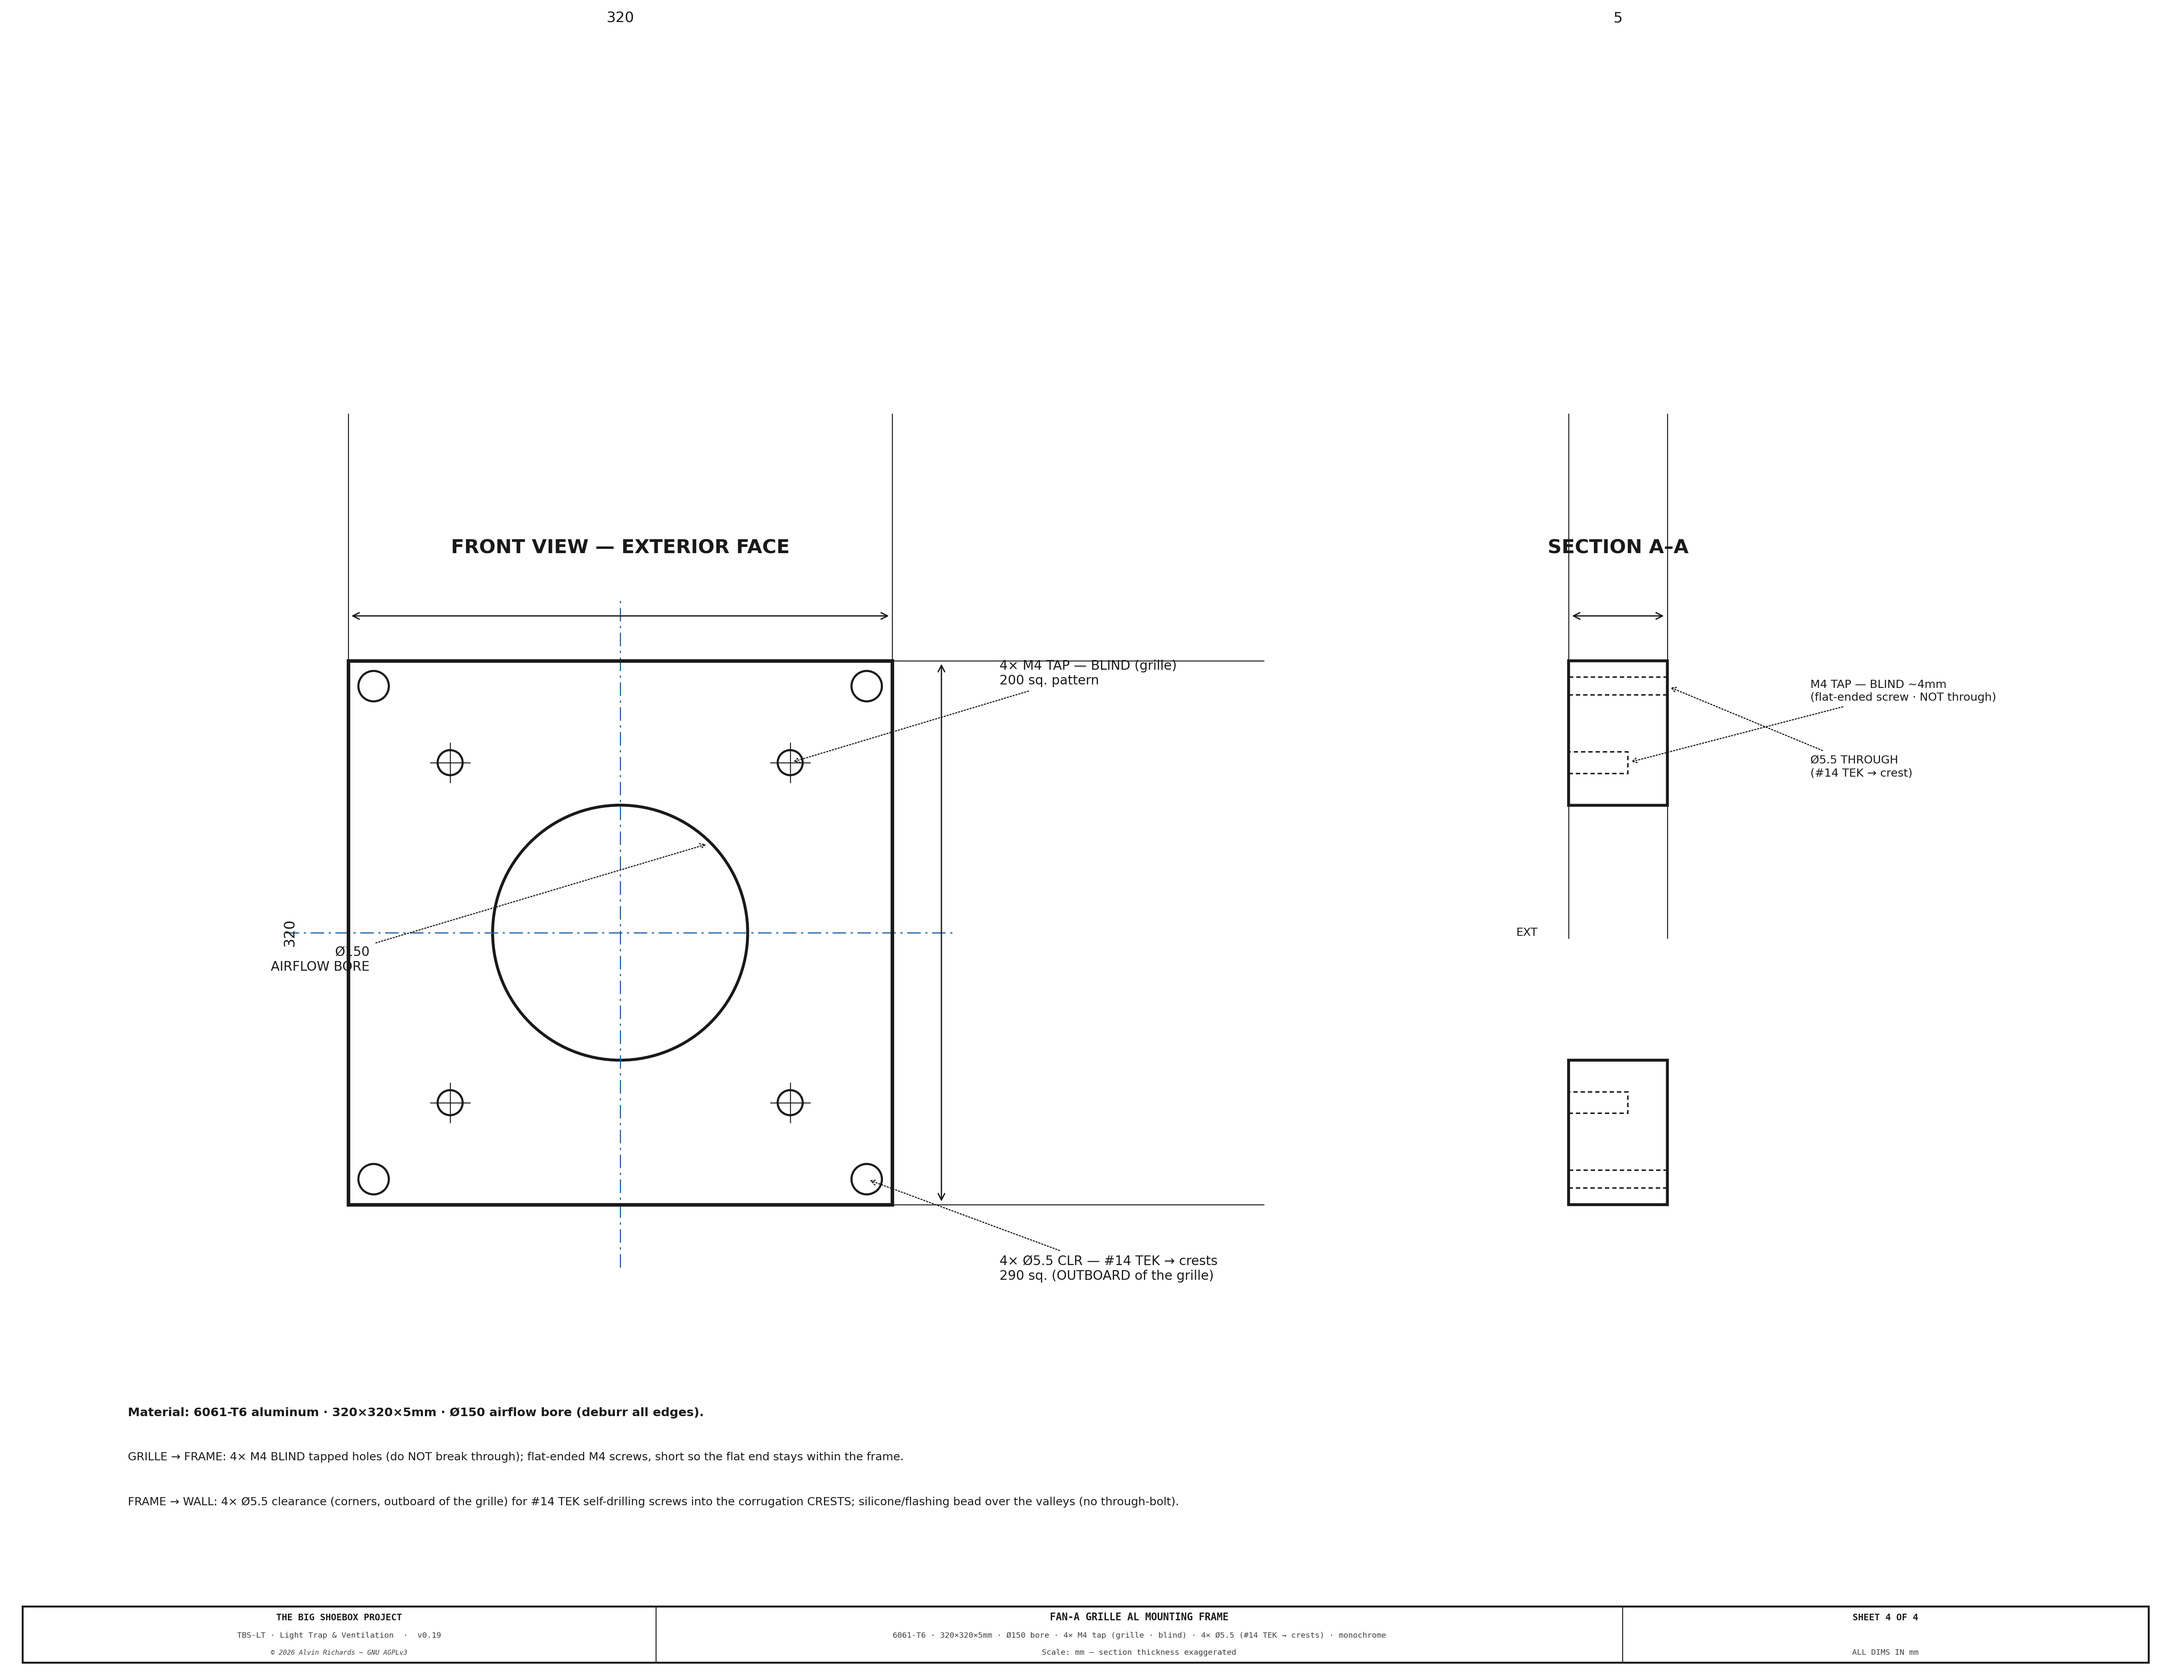
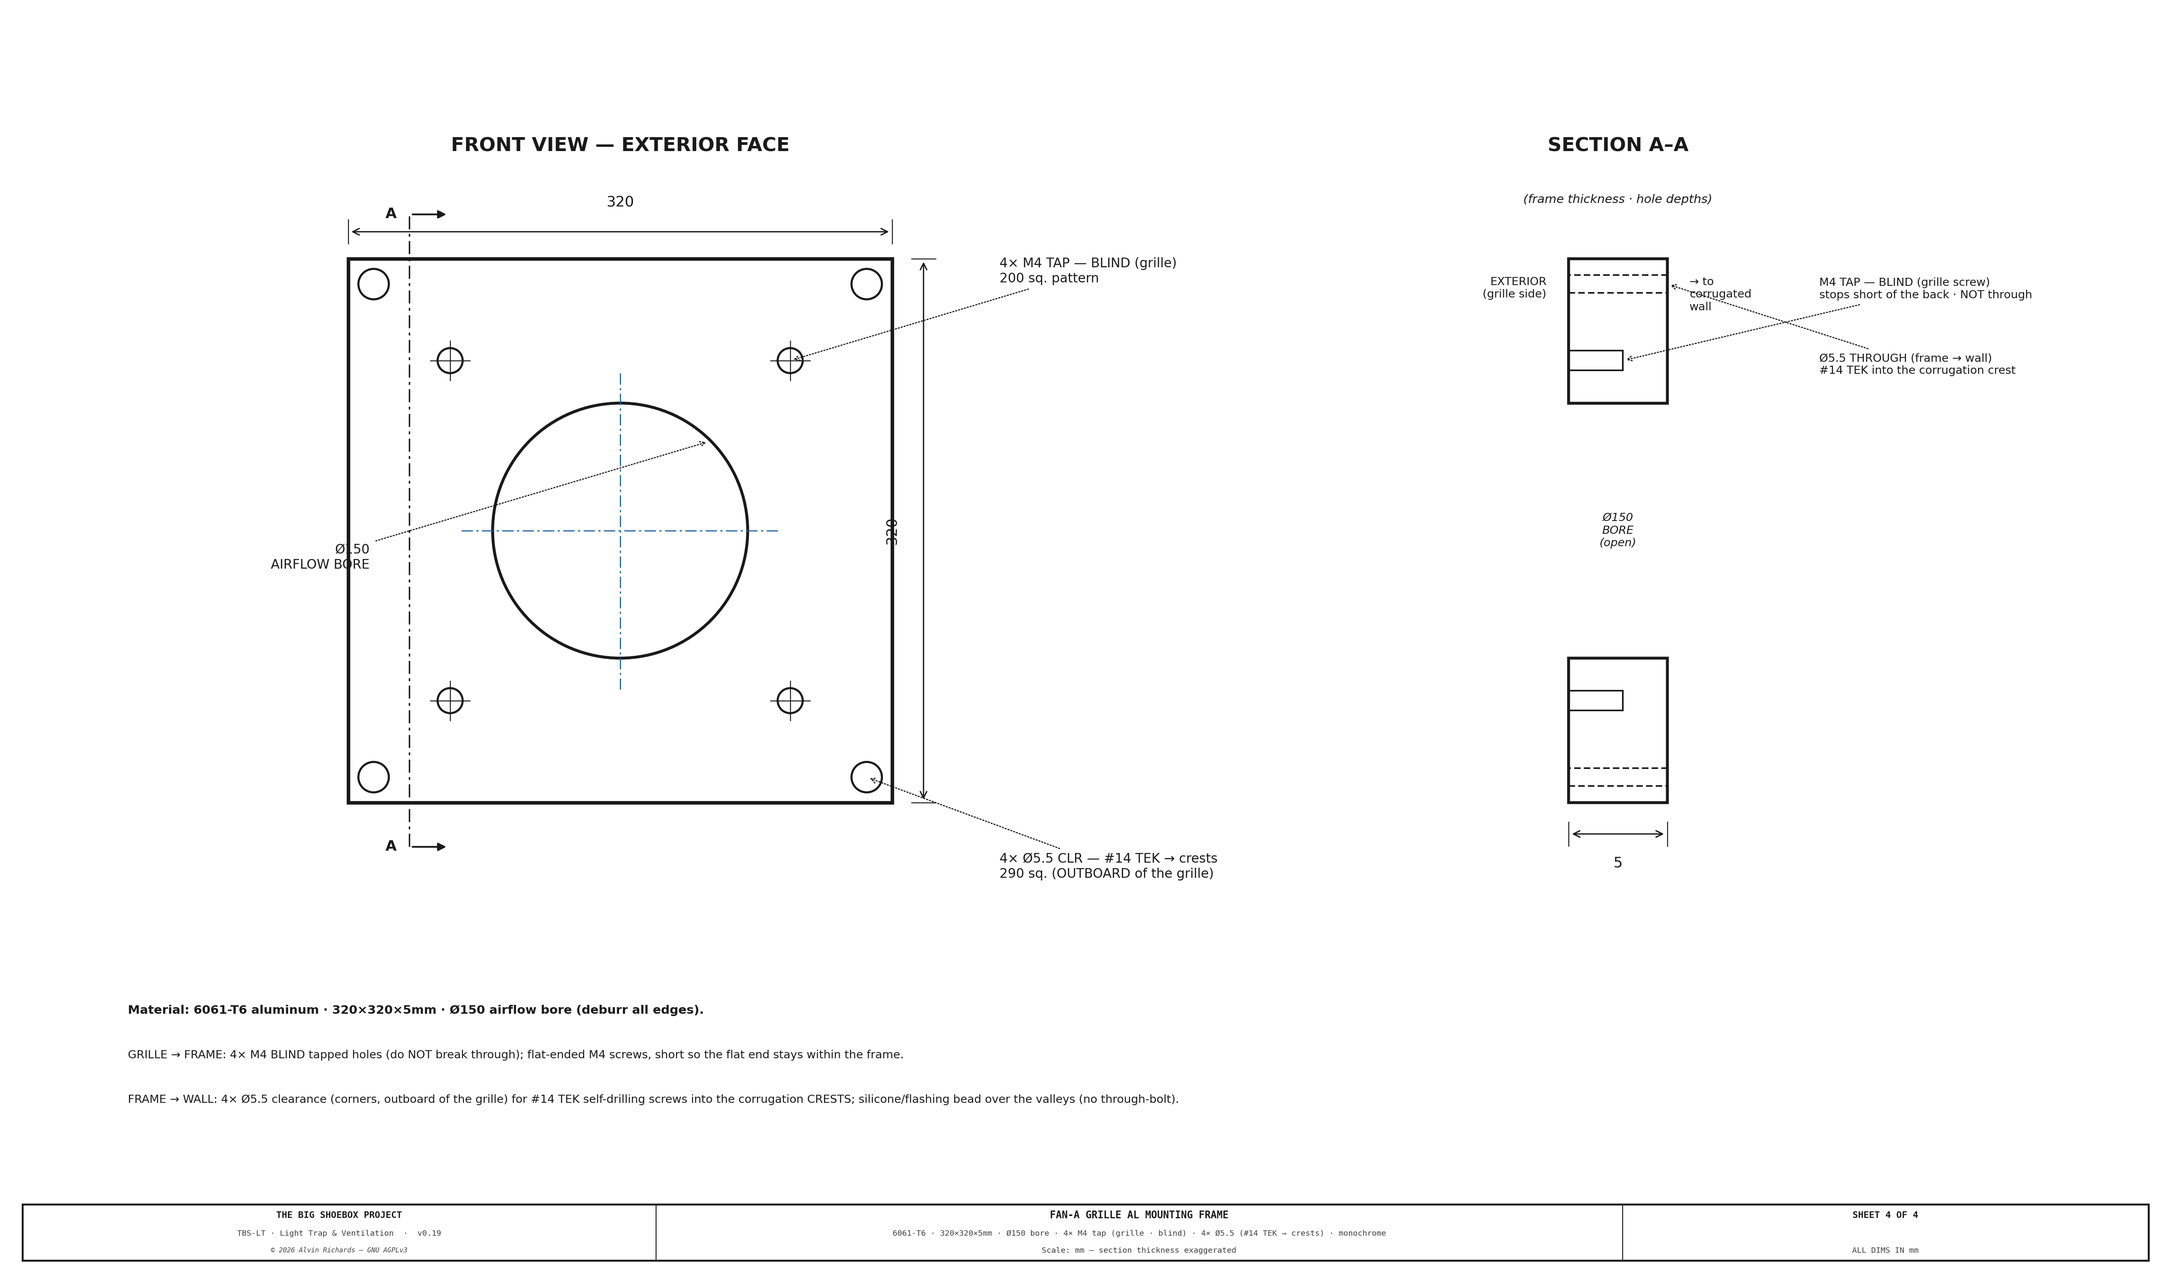
Ventilation Sheets 2 & 4 — review fixes
Sheet 2: extend the container wall to cover the grille frame + its OUTBOARD TEK
fixings (compute the frame margin before the wall) — the TEK screws now land in
the wall instead of empty space.

Sheet 4 (frame blueprint):
 - Add the SECTION A-A cut line + arrows on the front view so the section is
   anchored; clarify what A-A shows (subtitle 'frame thickness · hole depths',
   EXTERIOR/grille-side vs -> wall orientation, 'Ø150 BORE (open)', and the M4
   BLIND tap vs Ø5.5 THROUGH contrast spelled out).
 - Shorten the centre lines to a bore crosshair and tighten the dimension offset
   (default offset=12 drew 3.6-unit witness ticks past the frame) so draw_dim_h/v
   show the limits without extra extending lines; move the section thickness dim
   clear of the subtitle. All gates pass; built locally.

diff --git a/src/generators/generate_ventilation_diagram.py b/src/generators/generate_ventilation_diagram.py
@@ -478,16 +478,19 @@ def draw_sheet2():
             "Baffles full-height (welded top+bottom), air gap on alternating sides  ·  Dimensions in mm",
             ha="center", va="center", fontsize=8.0, color=C_DIM)
 
-    # ── Container wall — with the Ø150 airflow HOLE (the duct passes through; the hole is SMALLER
-    #    than the louvre panel so its flange overlaps the wall for the Tek screws) ──
+    # ── Container wall — with the Ø150 airflow HOLE. Drawn tall enough to carry the grille FRAME and its
+    #    OUTBOARD TEK fixings (the frame is wider than the hole, so the wall extends past the grille). ──
     HB, HT = FCZ - PF_R, FCZ + PF_R                          # Ø150 airflow hole (bottom / top)
-    for z0, z1 in [(wz0, HB), (HT, wz1)]:                    # wall drawn ABOVE + BELOW the hole
+    GL_MARG = 30                                             # grille flange margin beyond the hole
+    FR_MARG = GL_MARG + 48                                   # frame margin beyond the hole — WIDER than the grille
+    WZB, WZT = HB - FR_MARG - 18, HT + FR_MARG + 18          # wall extent — covers the frame + its outboard TEK
+    for z0, z1 in [(WZB, HB), (HT, WZT)]:                    # wall drawn ABOVE + BELOW the hole
         draw_rect(ax, WALL_X, z0, WALL_T, z1 - z0, fc=C_STEEL, lw=2.0, zorder=4)
         for zi in range(int(z0), int(z1), 8):
             ax.plot([WALL_X, WALL_X + WALL_T], [zi, zi + 10],
                     color=C_OUT, lw=0.4, alpha=0.4, zorder=5)
     ann(ax, "CONTAINER WALL\ncorrugated steel\n(wall thickness exaggerated)",
-        (WALL_X + WALL_T / 2, wz1 - 5), (WALL_X - 40, wz1 + 25))
+        (WALL_X + WALL_T / 2, wz1 - 5), (WALL_X - 40, WZT + 20))
     draw_dim_v(ax, WALL_X + WALL_T + 18, HB, HT, f"Ø{FAN_DIAM}\nwall hole", offset=8, fs=6.5, zorder=10, color=C_DIM)
 
     # ── Exterior AL mounting FRAME — a flat 5mm aluminum frame (WIDER than the grille) the louvre grille
@@ -495,9 +498,7 @@ def draw_sheet2():
     #    CRESTS, placed OUTBOARD of the grille + sealant over the valleys (no through-bolt). GRILLE→FRAME:
     #    M4 flat-ended screws BLIND-tapped into the frame (they do NOT reach the wall). Blueprint: Sheet 4. ──
     PLT_T   = 8                                              # frame thickness (exaggerated; real ~5mm)
-    GL_MARG = 30                                             # grille flange margin beyond the hole
-    FR_MARG = GL_MARG + 48                                   # frame margin beyond the hole — WIDER than the grille
-    PLT_Z   = HB - FR_MARG
+    PLT_Z   = HB - FR_MARG                                   # GL_MARG / FR_MARG defined with the wall above
     PLT_H   = (HT + FR_MARG) - PLT_Z
     for z0, z1 in [(PLT_Z, HB), (HT, PLT_Z + PLT_H)]:        # frame — open at the Ø150 hole for airflow
         draw_rect(ax, WALL_X - PLT_T, z0, PLT_T, z1 - z0, fc=C_ALUM, lw=1.3, zorder=5)
@@ -859,8 +860,15 @@ def draw_sheet4():
     ax.text(fcx, fy(FR_W / 2) + 1.2, "FRONT VIEW — EXTERIOR FACE", ha="center", fontsize=12, fontweight="bold", color=C)
     draw_rect(ax, fx(-FR_W / 2), fy(-FR_W / 2), FR_W * sc, FR_W * sc, fc="none", color=C, lw=2.2)    # frame outline (open centre)
     ax.add_patch(mpatches.Circle((fx(0), fy(0)), BORE / 2 * sc, fc="none", ec=C, lw=1.8))            # Ø150 airflow bore
-    ax.plot([fcx - hw - 0.7, fcx + hw + 0.7], [fcy, fcy], color=CL, lw=0.7, ls=(0, (12, 4, 2, 4)), zorder=1)
-    ax.plot([fcx, fcx], [fcy - hw - 0.7, fcy + hw + 0.7], color=CL, lw=0.7, ls=(0, (12, 4, 2, 4)), zorder=1)
+    br = BORE / 2 * sc
+    ax.plot([fcx - br - 0.35, fcx + br + 0.35], [fcy, fcy], color=CL, lw=0.7, ls=(0, (10, 3, 2, 3)), zorder=1)   # bore centre cross (short)
+    ax.plot([fcx, fcx], [fcy - br - 0.35, fcy + br + 0.35], color=CL, lw=0.7, ls=(0, (10, 3, 2, 3)), zorder=1)
+    # section cut A–A — vertical plane through the left fixing column (view looks right)
+    axx = fx(-M4_P - 24)
+    ax.plot([axx, axx], [fy(-FR_W / 2 - 26), fy(FR_W / 2 + 26)], color=C, lw=0.9, ls=(0, (9, 3, 2, 3)), zorder=2)
+    for yy in (fy(FR_W / 2 + 26), fy(-FR_W / 2 - 26)):
+        ax.annotate("", xy=(axx + 0.45, yy), xytext=(axx, yy), arrowprops=dict(arrowstyle="-|>", color=C, lw=1.1))
+        ax.text(axx - 0.14, yy, "A", ha="right", va="center", fontsize=9, fontweight="bold", color=C)
     for sgx in (-1, 1):
         for sgy in (-1, 1):
             cx_, cy_ = fx(sgx * M4_P), fy(sgy * M4_P)                                                # M4 tap (grille)
@@ -869,8 +877,8 @@ def draw_sheet4():
             ax.plot([cx_, cx_], [cy_ - 0.22, cy_ + 0.22], color=C, lw=0.6)
             tx_, ty_ = fx(sgx * TEK_P), fy(sgy * TEK_P)                                              # TEK clearance (corner)
             ax.add_patch(mpatches.Circle((tx_, ty_), 0.17, fc="none", ec=C, lw=1.3))
-    draw_dim_h(ax, fx(-FR_W / 2), fx(FR_W / 2), fy(FR_W / 2) + 0.5, f"{FR_W}", fs=9, color=C)
-    draw_dim_v(ax, fx(FR_W / 2) + 0.55, fy(-FR_W / 2), fy(FR_W / 2), f"{FR_W}", fs=9, color=C)
+    draw_dim_h(ax, fx(-FR_W / 2), fx(FR_W / 2), fy(FR_W / 2) + 0.3, f"{FR_W}", fs=9, color=C, offset=0.45)
+    draw_dim_v(ax, fx(FR_W / 2) + 0.35, fy(-FR_W / 2), fy(FR_W / 2), f"{FR_W}", fs=9, color=C, offset=0.45)
     leader(ax, fx(0) + BORE / 2 * sc * 0.7, fy(0) + BORE / 2 * sc * 0.7, fcx - 2.8, fcy - 0.3, f"Ø{BORE}\nAIRFLOW BORE", fs=8, color=C, arrow_style="->", ha="right")
     leader(ax, fx(M4_P), fy(M4_P), fx(FR_W / 2) + 1.2, fy(M4_P) + 1.0, f"4× M4 TAP — BLIND (grille)\n{2 * M4_P} sq. pattern", fs=8, color=C, arrow_style="->", ha="left")
     leader(ax, fx(TEK_P), fy(-TEK_P), fx(FR_W / 2) + 1.2, fy(-TEK_P) - 1.0, f"4× Ø5.5 CLR — #14 TEK → crests\n{2 * TEK_P} sq. (OUTBOARD of the grille)", fs=8, color=C, arrow_style="->", ha="left")
@@ -879,15 +887,20 @@ def draw_sheet4():
     TSd = 1.1                               # drawn thickness (exaggerated)
     def sfy(mm): return scz + mm * sc
     ax.text(scx + TSd / 2, sfy(FR_W / 2) + 1.2, "SECTION A–A", ha="center", fontsize=12, fontweight="bold", color=C)
+    ax.text(scx + TSd / 2, sfy(FR_W / 2) + 0.62, "(frame thickness · hole depths)", ha="center", fontsize=7.5, style="italic", color=C)
     for y0, y1 in [(-FR_W / 2, -BORE / 2), (BORE / 2, FR_W / 2)]:
         draw_rect(ax, scx, sfy(y0), TSd, (y1 - y0) * sc, fc="none", color=C, lw=1.8)
     for sgy in (-1, 1):
-        ax.add_patch(mpatches.Rectangle((scx, sfy(sgy * M4_P) - 0.12), TSd * 0.6, 0.24, fc="white", ec=C, lw=0.9, ls=(0, (3, 2))))   # M4 blind tap (from exterior)
-        ax.add_patch(mpatches.Rectangle((scx, sfy(sgy * TEK_P) - 0.10), TSd, 0.20, fc="white", ec=C, lw=0.9, ls=(0, (3, 2))))        # TEK clearance (through)
-    draw_dim_h(ax, scx, scx + TSd, sfy(FR_W / 2) + 0.5, f"{FR_T}", fs=9, color=C)
-    ax.text(scx - 0.35, sfy(0), "EXT", ha="right", va="center", fontsize=7, color=C)
-    leader(ax, scx + TSd * 0.6, sfy(M4_P), scx + 2.7, sfy(M4_P) + 0.8, "M4 TAP — BLIND ~4mm\n(flat-ended screw · NOT through)", fs=7, color=C, arrow_style="->", ha="left")
-    leader(ax, scx + TSd, sfy(TEK_P), scx + 2.7, sfy(TEK_P) - 0.9, "Ø5.5 THROUGH\n(#14 TEK → crest)", fs=7, color=C, arrow_style="->", ha="left")
+        # M4 TAP — BLIND: hole from the EXTERIOR face that STOPS SHORT of the back (grille screw)
+        ax.add_patch(mpatches.Rectangle((scx, sfy(sgy * M4_P) - 0.11), TSd * 0.55, 0.22, fc="white", ec=C, lw=1.0))
+        # TEK — THROUGH: hole across the FULL thickness (fixes the frame to the wall)
+        ax.add_patch(mpatches.Rectangle((scx, sfy(sgy * TEK_P) - 0.10), TSd, 0.20, fc="white", ec=C, lw=1.0, ls=(0, (4, 2))))
+    draw_dim_h(ax, scx, scx + TSd, sfy(-FR_W / 2) - 0.35, f"{FR_T}", fs=9, color=C, offset=0.45, above=False)
+    ax.text(scx - 0.25, sfy(FR_W / 2) - 0.2, "EXTERIOR\n(grille side)", ha="right", va="top", fontsize=7, color=C)
+    ax.text(scx + TSd + 0.25, sfy(FR_W / 2) - 0.2, "→ to\ncorrugated\nwall", ha="left", va="top", fontsize=7, color=C)
+    ax.text(scx + TSd / 2, sfy(0), "Ø150\nBORE\n(open)", ha="center", va="center", fontsize=7, style="italic", color=C)
+    leader(ax, scx + TSd * 0.55, sfy(M4_P), scx + 2.8, sfy(M4_P) + 0.8, "M4 TAP — BLIND (grille screw)\nstops short of the back · NOT through", fs=7, color=C, arrow_style="->", ha="left")
+    leader(ax, scx + TSd, sfy(TEK_P), scx + 2.8, sfy(TEK_P) - 0.9, "Ø5.5 THROUGH (frame → wall)\n#14 TEK into the corrugation crest", fs=7, color=C, arrow_style="->", ha="left")
     draw_notes(ax, [
         "Material: 6061-T6 aluminum · 320×320×5mm · Ø150 airflow bore (deburr all edges).",
         "GRILLE → FRAME: 4× M4 BLIND tapped holes (do NOT break through); flat-ended M4 screws, short so the flat end stays within the frame.",
